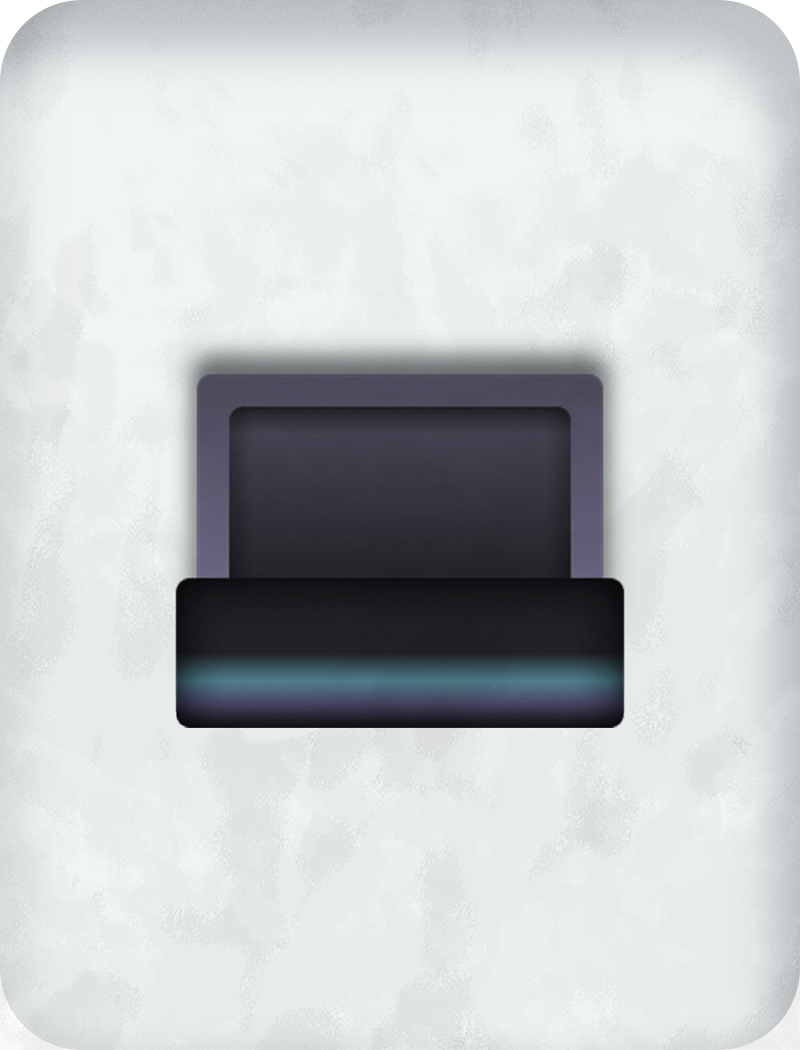
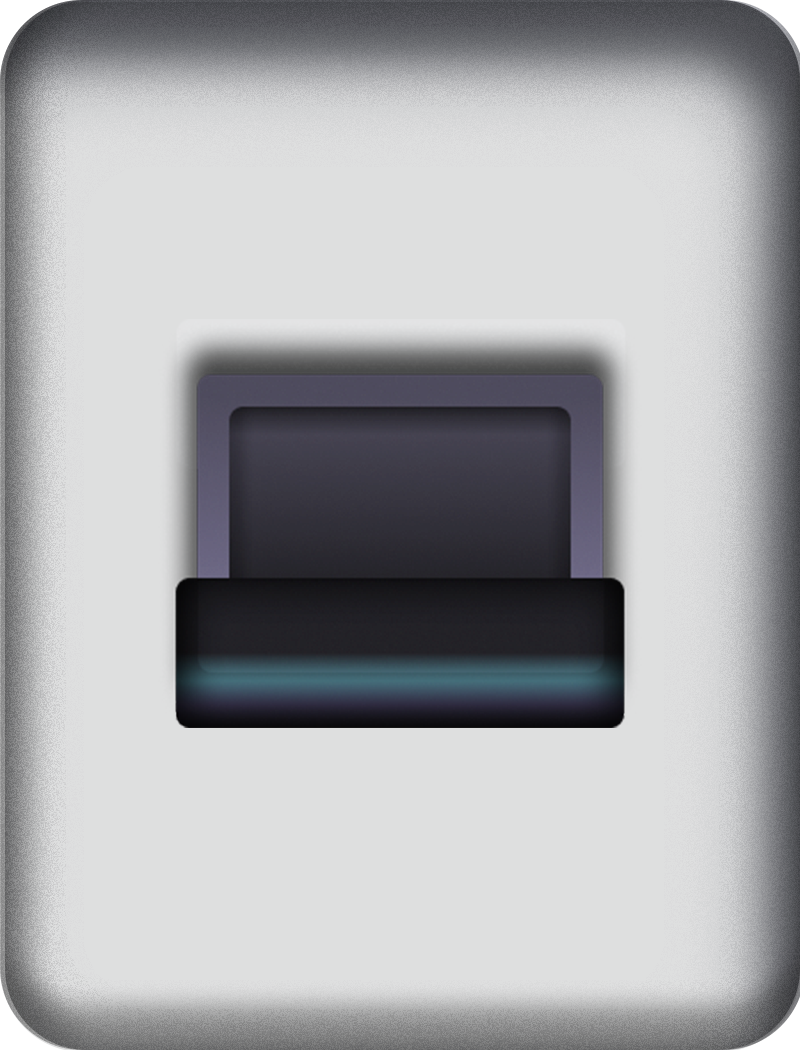
switches basic arregladas modo de fusión multiplicar

diff --git a/src/components/App.jsx b/src/components/App.jsx
@@ -14,7 +14,7 @@ const initialConfig = {
   config: {
     nSwitches: 6,
     switchType: SWITCHTYPE.CUSTOM,
-    theme: THEMES.FUTURISTIC,
+    theme: THEMES.BASIC,
   },
   customSwitches: [
     {
